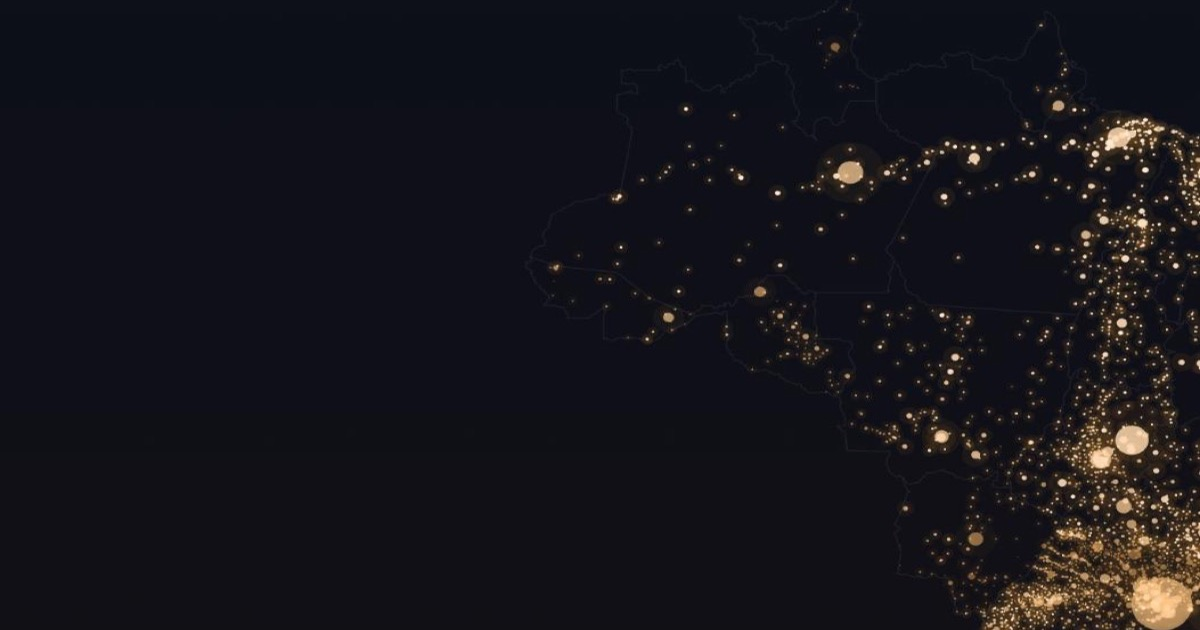
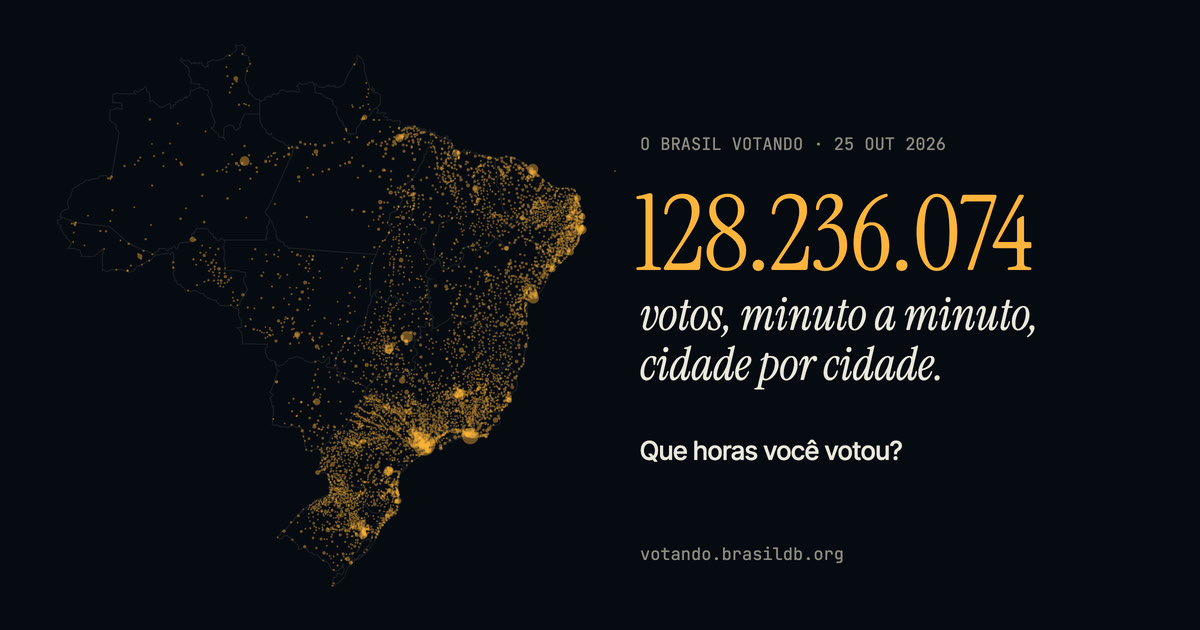
Link preview, meta tags and access checks for publishing (P4 W8) (#44)
* fix(site): keep the vote ticker inside the screen on phones

Long town names ran past the right edge at 390 px; phones drop the 'voto computado' suffix.

Claude-Session: https://claude.ai/code/session_019oMnQCRisieeuVqXLUnjEo

* feat(site): new link preview image, meta tags, robots and sitemap

v1's preview showed half a map; the old /v2/ redirect pages are kept out of search.

Claude-Session: https://claude.ai/code/session_019oMnQCRisieeuVqXLUnjEo

* docs(plans): close W8 public and access lines with evidence

Claude-Session: https://claude.ai/code/session_019oMnQCRisieeuVqXLUnjEo

---------

diff --git a/docs/site/index.html b/docs/site/index.html
@@ -9,6 +9,15 @@
 <meta property="og:title" content="O Brasil votando">
 <meta property="og:description" content="Que horas o Brasil votou? 128.236.074 votos, cidade por cidade. Descubra quantas pessoas votaram com você.">
 <meta property="og:image" content="https://votando.brasildb.org/og.jpg">
+<meta property="og:image:width" content="1200">
+<meta property="og:image:height" content="630">
+<meta property="og:image:alt" content="Mapa do Brasil com um ponto por cidade e o número 128.236.074 votos.">
+<meta property="og:type" content="website">
+<meta property="og:locale" content="pt_BR">
+<meta property="og:site_name" content="O Brasil votando">
+<meta name="robots" content="index, follow">
+<meta property="og:url" content="https://votando.brasildb.org/">
+<link rel="canonical" href="https://votando.brasildb.org/">
 <meta name="twitter:card" content="summary_large_image">
 <link rel="preconnect" href="https://fonts.googleapis.com">
 <link rel="preconnect" href="https://fonts.gstatic.com" crossorigin>
@@ -111,6 +120,7 @@
   .primeiro .pt { font-family: var(--serif); font-size: clamp(26px, 5vw, 44px); margin-top: 12px; font-style: italic; }
   .enx { position: absolute; left: 0; right: 0; top: 18%; bottom: 12%; padding: 0 var(--gx); display: flex; flex-direction: column; justify-content: flex-end; overflow: hidden; font-family: var(--mono); font-size: 13px; line-height: 1.8; -webkit-mask-image: linear-gradient(transparent, #000 45%); mask-image: linear-gradient(transparent, #000 45%); }
   .enx div { display: grid; grid-template-columns: 9ch 1fr; gap: 1.5ch; white-space: nowrap; overflow: hidden; text-overflow: ellipsis; color: var(--muted); }
+  .enx div > span { overflow: hidden; text-overflow: ellipsis; }
   .enx div b { font-weight: 400; color: var(--fg); }
   .enx div.um b, .enx div.um span { color: var(--accent); }
   .enx div i { font-style: normal; color: var(--accent); opacity: .7; }
@@ -143,6 +153,7 @@
     .palco.duplo canvas.fio { width: 100%; height: 62%; }
     .palco.duplo .fase, .palco.duplo .enx, .palco.duplo .hint { right: 0; bottom: 38%; }
     .palco.duplo .enx { bottom: 40%; }
+    .enx .vc { display: none; }
     .passos { grid-area: 2 / 1; border-left: 0; border-top: 1px solid var(--line); background: var(--bg2); border-radius: 20px 20px 0 0; }
     .passos::before { content: ""; position: absolute; top: 8px; left: 50%; width: 36px; height: 4px; margin-left: -18px; border-radius: 2px; background: var(--line); }
     .passos ol { left: var(--gx); right: 20px; top: 26px; transform: translateY(calc(-1 * var(--yt, 0px))); }
@@ -791,7 +802,7 @@ function minha() {
     if (k !== shown) {
       shown = k;
       enx.innerHTML = linhas.slice(Math.max(0, k - VIS), k).map(l =>
-        `<div class="${l.um ? "um" : ""}"><span>${l.hora}</span><span><i>●</i> <b>${l.municipio}</b>, ${l.uf} · voto computado</span></div>`).join("");
+        `<div class="${l.um ? "um" : ""}"><span>${l.hora}</span><span><i>●</i> <b>${l.municipio}</b>, ${l.uf}<span class="vc"> · voto computado</span></span></div>`).join("");
     }
     const o = fora ? 2 : 0, e = p < f0 ? null : p < f1 ? its[0] : p < f2 ? its[1] : p < f3 ? its[o] : p < 0.8 ? its[o + 1] : its[o + 2];
     passos(host, its, e);

diff --git a/docs/site/explorar/index.html b/docs/site/explorar/index.html
@@ -3,11 +3,20 @@
 <head>
 <meta charset="utf-8">
 <meta name="viewport" content="width=device-width, initial-scale=1, viewport-fit=cover">
-<title>O Brasil votando</title>
-<meta name="description" content="O dia em que 127 milhões votaram, minuto a minuto. Cada urna anota a hora de cada voto; juntamos todas. O segundo turno de 2026, cidade por cidade.">
+<title>Explorar o mapa · O Brasil votando</title>
+<meta name="description" content="O mapa livre do segundo turno de 2026: escolha um minuto e uma cidade e veja quantos votavam. 128.236.074 votos, minuto a minuto, pelo log das urnas.">
 <meta property="og:title" content="O Brasil votando">
-<meta property="og:description" content="O dia em que 127 milhões votaram, minuto a minuto. Veja sua cidade acender.">
+<meta property="og:description" content="128.236.074 votos, minuto a minuto. Escolha um minuto e veja sua cidade acender.">
 <meta property="og:image" content="https://votando.brasildb.org/og.jpg">
+<meta property="og:image:width" content="1200">
+<meta property="og:image:height" content="630">
+<meta property="og:image:alt" content="Mapa do Brasil com um ponto por cidade e o número 128.236.074 votos.">
+<meta property="og:type" content="website">
+<meta property="og:locale" content="pt_BR">
+<meta property="og:site_name" content="O Brasil votando">
+<meta name="robots" content="index, follow">
+<meta property="og:url" content="https://votando.brasildb.org/explorar/">
+<link rel="canonical" href="https://votando.brasildb.org/explorar/">
 <meta name="twitter:card" content="summary_large_image">
 <link rel="preconnect" href="https://fonts.googleapis.com">
 <link rel="stylesheet" href="https://fonts.googleapis.com/css2?family=Inter+Tight:wght@400;600;800&display=swap">

diff --git a/docs/site/como.html b/docs/site/como.html
@@ -5,6 +5,19 @@
 <meta name="viewport" content="width=device-width, initial-scale=1">
 <title>Como funciona e como fizemos · O Brasil votando</title>
 <meta name="description" content="Os termos do dia de uma urna, as fontes do TSE, o método e onde os números não batem.">
+<meta property="og:title" content="Como funciona e como fizemos · O Brasil votando">
+<meta property="og:description" content="Os termos do dia de uma urna, as fontes do TSE, o método e onde os números não batem.">
+<meta property="og:image" content="https://votando.brasildb.org/og.jpg">
+<meta property="og:image:width" content="1200">
+<meta property="og:image:height" content="630">
+<meta property="og:image:alt" content="Mapa do Brasil com um ponto por cidade e o número 128.236.074 votos.">
+<meta property="og:type" content="website">
+<meta property="og:locale" content="pt_BR">
+<meta property="og:site_name" content="O Brasil votando">
+<meta name="robots" content="index, follow">
+<meta property="og:url" content="https://votando.brasildb.org/como.html">
+<meta name="twitter:card" content="summary_large_image">
+<link rel="canonical" href="https://votando.brasildb.org/como.html">
 <link rel="preconnect" href="https://fonts.googleapis.com">
 <link rel="preconnect" href="https://fonts.gstatic.com" crossorigin>
 <link rel="stylesheet" href="https://fonts.googleapis.com/css2?family=Instrument+Serif:ital@0;1&family=Inter+Tight:wght@400;500;600&family=JetBrains+Mono:wght@400;500&display=swap">

diff --git a/docs/site/v2/como.html b/docs/site/v2/como.html
@@ -6,6 +6,8 @@
 <title>Como funciona e como fizemos</title>
 <script>location.replace("../como.html" + location.hash);</script>
 <meta http-equiv="refresh" content="0; url=../como.html">
+<link rel="canonical" href="https://votando.brasildb.org/como.html">
+<meta name="robots" content="noindex">
 <style>body { background: #070a12; color: #ece8dc; font-family: system-ui, sans-serif; }</style>
 </head>
 <body><p><a href="../como.html">Como funciona e como fizemos</a></p></body>

diff --git a/docs/site/v2/index.html b/docs/site/v2/index.html
@@ -8,6 +8,7 @@
 <script>location.replace("../" + location.search + location.hash);</script>
 <meta http-equiv="refresh" content="0; url=../">
 <link rel="canonical" href="https://votando.brasildb.org/">
+<meta name="robots" content="noindex">
 <style>body { background: #070a12; color: #ece8dc; font-family: system-ui, sans-serif; }</style>
 </head>
 <body><p><a href="../">O Brasil votando</a></p></body>

diff --git a/scripts/site_v2_check.py b/scripts/site_v2_check.py
@@ -50,6 +50,8 @@ class Texto(HTMLParser):
     def handle_starttag(self, tag, attrs):
         if tag in ("script", "style"):
             self.dentro = tag
+        if dict(attrs).get("property") in ("og:image:width", "og:image:height"):
+            return  # the preview image's pixel size, not a number the reader sees
         self.visivel += [v for k, v in attrs if k in self.ATTRS and v]
 
     def handle_endtag(self, tag):

diff --git a/docs/plans/P4-publish.md b/docs/plans/P4-publish.md
@@ -48,18 +48,29 @@ checks each line; a line is closed when its evidence is written next to it.
 
 ## Public
 
-- [ ] P1 A new OG image (one static image), replacing v1's `og.jpg`.
-- [ ] P2 Share text and card checked on WhatsApp and Instagram, on a phone.
-- [ ] P3 Meta description, page title and `robots`.
+- [x] P1 A new OG image (one static image), replacing v1's `og.jpg`.
+      Evidence: 1200x630, the whole map lit with the total, drawn with the walk's own map code (2026-10-30).
+- [x] P2 Share text and card checked on WhatsApp and Instagram, on a phone.
+      Evidence: Robson's phone test after #43: card, text and bare link look right (2026-10-30).
+- [x] P3 Meta description, page title and `robots`.
+      Evidence: og and canonical tags on the walk, `/explorar/` and `como.html`; `/v2/` noindex;
+      `robots.txt` and `sitemap.xml`; the explorer no longer says 127 milhões (2026-10-30).
 - [x] P4 A line naming the source (TSE open data) and the repo on the card or the footer.
       Evidence: footer of the walk and `/explorar/`, plus the note at the top of `como.html` (2026-10-30).
-- [ ] P5 Old share links: `?t=` to `/explorar/`, `/v2/` to `/`, town links keep working.
+- [x] P5 Old share links: `?t=` to `/explorar/`, `/v2/` to `/`, town links keep working.
+      Evidence: 8 links walked, all land on the right page and town (2026-10-30).
 
 ## Access
 
-- [ ] A1 Reduced motion: the calm page has every number.
-- [ ] A2 Screen-reader tables behind each chart.
-- [ ] A3 A keyboard walk from the first fold to the card.
-- [ ] A4 390x844, 1440x900 and 1366x650 (short laptop): no clipped text, 0 console errors.
+- [x] A1 Reduced motion: the calm page has every number.
+      Evidence: all 45 steps visible; every fact's number on the page (2026-10-30).
+- [x] A2 Screen-reader tables behind each chart.
+      Evidence: tables behind the 8h, 16h and apuração charts (61, 19, 27 rows); the map points to its
+      list of 15 facts; the card has its own label (2026-10-30).
+- [x] A3 A keyboard walk from the first fold to the card.
+      Evidence: 46 Tab stops from the top to "Copiar link", each with a focus ring and scrolled into view (2026-10-30).
+- [x] A4 390x844, 1440x900 and 1366x650 (short laptop): no clipped text, 0 console errors.
+      Evidence: the vote ticker was cut on phones, now shorter there; no other clipping, no
+      horizontal scroll; the only error is the analytics beacon on localhost (2026-10-30).
 
 Done when no line is open and Robson says publish.
